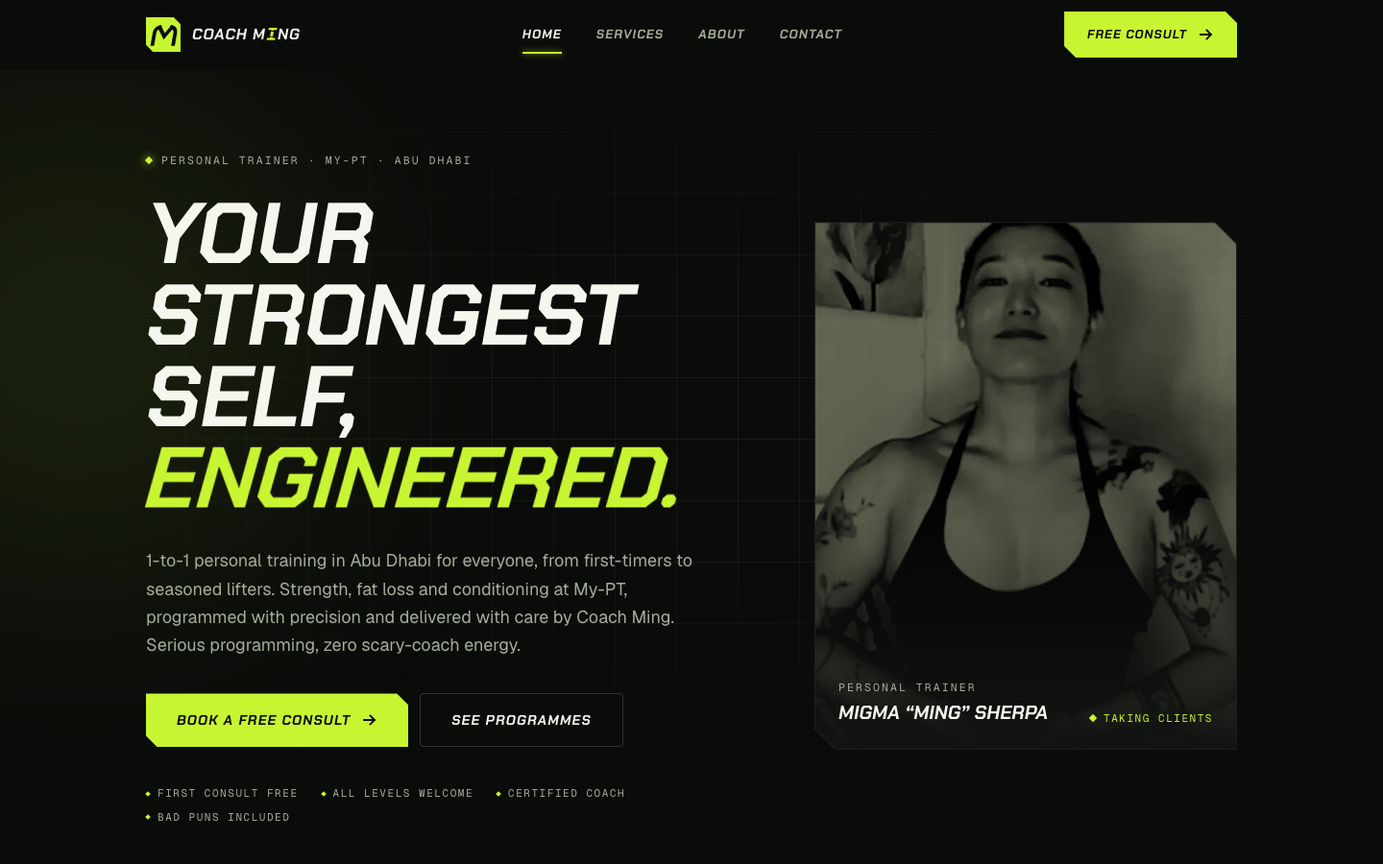
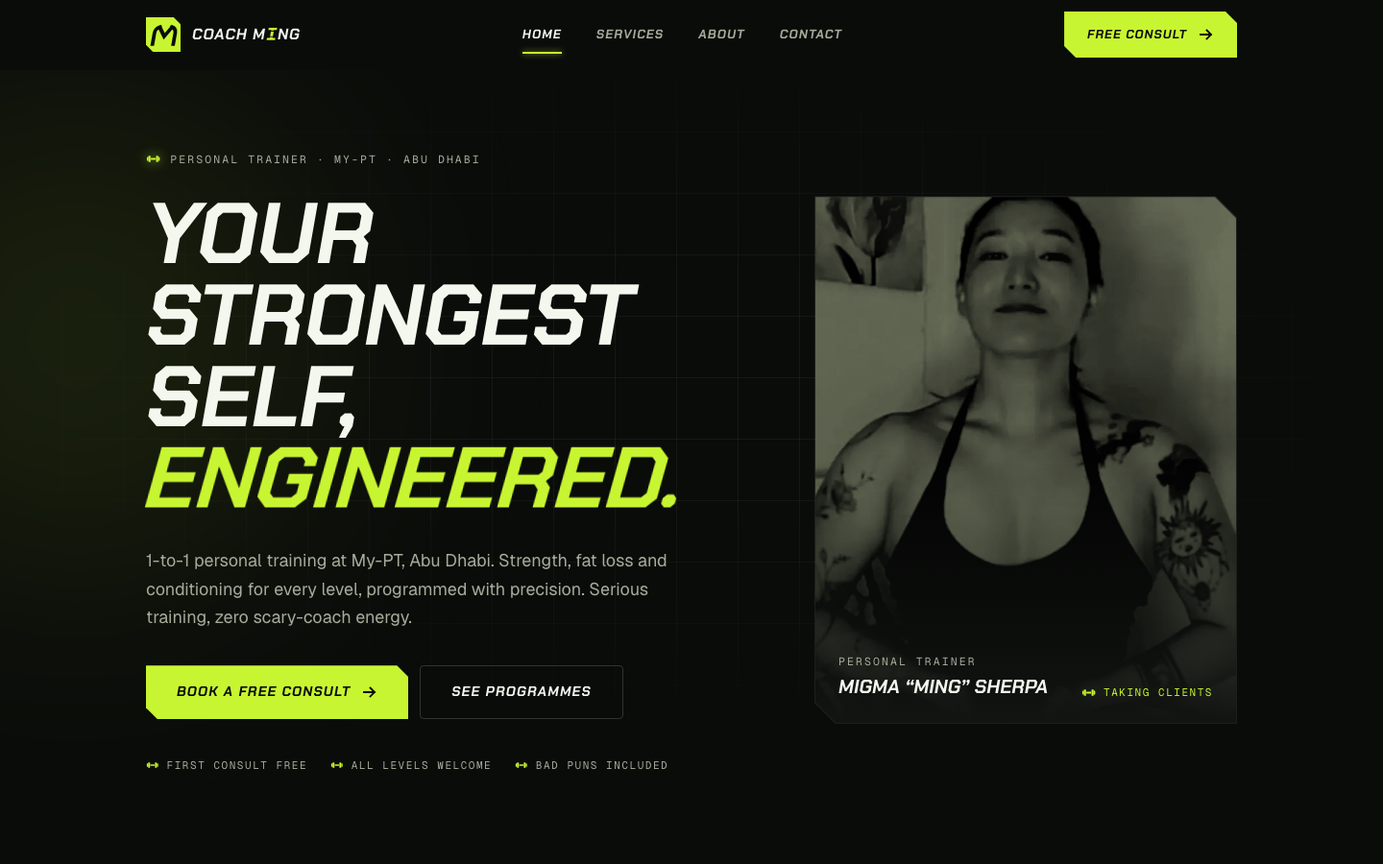
Review and cleanup pass
- Remove ticker, fourth hero chip, footer WhatsApp link, one redundant FAQ
- Tighten copy to short, direct sentences; keyword in home programmes H2
- Fix navigation scroll defect: no global smooth scroll, new pages start at
  top (anchors untouched), crossfade-only page transition
- New 404 page: offer-led, quick links, curling dumbbell
- Footer bottom padding clears the mobile bar incl. safe area
- Remove unused Eyebrow prop, postal field, misleading animation names,
  duplicate scroll effect
- docs/REVIEW.md rewritten with current ratings and Lighthouse numbers

diff --git a/src/app/not-found.tsx b/src/app/not-found.tsx
@@ -1,18 +1,68 @@
+import { site } from "@/config/site";
+import { whatsappUrl } from "@/lib/whatsapp";
 import { Container } from "@/components/ui/Container";
 import { Button } from "@/components/ui/Button";
+import { Eyebrow } from "@/components/ui/Eyebrow";
+import Link from "next/link";
 
+const links = [
+  { href: "/services", label: "Programmes", text: "1-to-1, ladies-only group, online." },
+  { href: "/about", label: "About Ming", text: "Who is coaching you, and how." },
+  { href: "/contact", label: "Contact", text: "WhatsApp, email, studio hours." },
+];
+
+/**
+ * A dead end turned into an offer: the headline stays in character, the
+ * primary action is the same free consult as everywhere else, and the three
+ * main pages are one tap away. The curling dumbbell gives it a pulse.
+ */
 export default function NotFound() {
   return (
-    <section className="py-24 md:py-40">
-      <Container className="text-center">
-        <p className="eyebrow justify-center">404</p>
-        <h1 className="display mt-4 text-[3rem] text-fg md:text-[5rem]">
-          Missed <span className="text-lime">rep</span>.
-        </h1>
-        <p className="mx-auto mt-5 max-w-md text-muted">That page does not exist. Let us get you back to the programme.</p>
-        <div className="mt-8">
-          <Button href="/">Back home</Button>
+    <section className="relative overflow-hidden">
+      <div aria-hidden className="grid-lines absolute inset-0" />
+      <Container className="relative py-20 md:py-32">
+        <div className="mx-auto max-w-2xl text-center">
+          <svg aria-hidden viewBox="0 0 64 36" width="88" height="50" className="mx-auto mb-8 text-lime">
+            <g className="cursor-rep" style={{ animation: "cursor-rep 1.2s ease-in-out infinite" }} fill="currentColor">
+              <rect x="22" y="15" width="20" height="6" rx="1" />
+              <rect x="12" y="6" width="9" height="24" rx="1.6" />
+              <rect x="43" y="6" width="9" height="24" rx="1.6" />
+              <rect x="4" y="10" width="6" height="16" rx="1.2" />
+              <rect x="54" y="10" width="6" height="16" rx="1.2" />
+            </g>
+          </svg>
+          <Eyebrow className="justify-center">404 · Page not found</Eyebrow>
+          <h1 className="display mt-4 text-[3rem] text-fg md:text-[5rem]">
+            Missed <span className="text-lime">rep</span>.
+          </h1>
+          <p className="mx-auto mt-5 max-w-md text-muted md:text-lg">
+            Happens to everyone. The page you wanted is not here, but your free first consult still is.
+          </p>
+          <div className="mt-8 flex flex-col justify-center gap-3 sm:flex-row">
+            <Button href={whatsappUrl(`Hi ${site.nickname}, I found a missing page on your site but I'd still like a free consult.`)} external size="lg" className="w-full sm:w-auto">
+              Book a free consult
+            </Button>
+            <Button href="/" variant="secondary" size="lg" className="w-full sm:w-auto">
+              Back home
+            </Button>
+          </div>
         </div>
+
+        <ul className="mx-auto mt-16 grid max-w-3xl gap-3 sm:grid-cols-3">
+          {links.map((l) => (
+            <li key={l.href}>
+              <Link href={l.href} className="group block h-full rounded-card border border-line bg-surface p-5 transition-colors hover:border-lime/60">
+                <span className="nav-link flex items-center justify-between text-fg group-hover:text-lime">
+                  {l.label}
+                  <svg aria-hidden width="14" height="14" viewBox="0 0 16 16" fill="none" className="transition-transform duration-300 ease-out-expo group-hover:translate-x-1">
+                    <path d="M2 8h11M8.5 3.5 13 8l-4.5 4.5" stroke="currentColor" strokeWidth="1.8" strokeLinecap="square" />
+                  </svg>
+                </span>
+                <span className="mt-2 block text-sm text-muted">{l.text}</span>
+              </Link>
+            </li>
+          ))}
+        </ul>
       </Container>
     </section>
   );

diff --git a/src/config/site.ts b/src/config/site.ts
@@ -26,7 +26,6 @@ export const site = {
     street: "My-PT Studio", // TODO: street address
     area: "Al Reem Island", // TODO: area / neighbourhood
     city: "Abu Dhabi",
-    postal: "",
     mapsUrl: "https://maps.google.com/?q=My-PT+Abu+Dhabi", // TODO
     geo: { lat: 24.4539, lng: 54.3773 }, // TODO: studio coordinates
   },
@@ -117,24 +116,24 @@ export const process = [
   {
     step: "01",
     title: "Free consult",
-    text: "A 15-minute WhatsApp or in-person chat about your goals, injuries and schedule. No pressure, no sales script.",
+    text: "A 15-minute chat on WhatsApp or in person about your goals, injuries and schedule. No pressure, no sales script.",
   },
   {
     step: "02",
     title: "Assess & plan",
-    text: "We test how you move, where you are, and what you can commit to. You get a written plan within 48 hours.",
+    text: "We test how you move and what you can commit to. You get a written plan within 48 hours.",
   },
   {
     step: "03",
     title: "Train, track, adjust",
-    text: "Coached sessions, logged progress, and a programme that evolves every four weeks as you get stronger.",
+    text: "Coached sessions, logged progress, and a programme that changes every four weeks as you get stronger.",
   },
 ];
 
 export const differentiators = [
   {
     title: "Programmed, not improvised",
-    text: "Every session belongs to a block with a purpose. You will always know why you are doing what you are doing.",
+    text: "Every session belongs to a block with a purpose. You always know why you are doing what you are doing.",
   },
   {
     title: "Coaching for every body",
@@ -179,19 +178,15 @@ export const faqs = [
   },
   {
     q: "Is there a ladies-only option?",
-    a: "Yes. The small-group sessions are women-only, and if you prefer privacy for 1-to-1 we can schedule quieter hours at My-PT.",
+    a: "Yes. The small-group sessions are women-only. For 1-to-1, we can book quieter hours at My-PT if you prefer privacy.",
   },
   {
     q: "I have never lifted weights. Is this for me?",
-    a: "Absolutely. Most of my clients start as complete beginners. We begin with movement basics and bodyweight, then add load only when technique is solid.",
+    a: "Yes. Most of my clients start as complete beginners. We begin with movement basics and bodyweight, and add load only when technique is solid.",
   },
   {
     q: "How much does personal training cost?",
     a: "1-to-1 sessions start from AED 350, ladies-only small group from AED 150 per session, and online coaching from AED 900 per month. Packs bring the per-session price down. Your first consultation is free.",
-  },
-  {
-    q: "Where are the sessions?",
-    a: "In person at My-PT in Abu Dhabi. Online coaching works anywhere with a gym or a few dumbbells.",
   },
   {
     q: "Can I train during pregnancy or after giving birth?",
@@ -203,6 +198,6 @@ export const faqs = [
   },
   {
     q: "How quickly will I see results?",
-    a: "Strength and energy improve within the first 3–4 weeks. Visible body-composition change typically shows at 8–12 weeks of consistent training and sensible nutrition.",
+    a: "Strength and energy improve within 3–4 weeks. Visible change in body composition usually shows at 8–12 weeks of consistent training and sensible eating.",
   },
 ];

diff --git a/src/components/sections/Hero.tsx b/src/components/sections/Hero.tsx
@@ -38,7 +38,7 @@ export function Hero() {
             {lines.map((l, i) => (
               <span key={l.text} className="block">
                 <span
-                  className={l.accent ? "rise-mask-skew inline-block text-lime" : "rise-mask inline-block"}
+                  className={l.accent ? "settle-skew inline-block text-lime" : "settle inline-block"}
                   style={{ "--d": `${0.1 + i * 0.07}s` } as React.CSSProperties}
                 >
                   {l.text}
@@ -48,7 +48,7 @@ export function Hero() {
           </h1>
 
           <p className="rise mt-6 max-w-xl text-base leading-relaxed text-muted md:mt-7 md:text-lg" style={{ "--d": "0.4s" } as React.CSSProperties}>
-            1-to-1 personal training in {site.city} for everyone, from first-timers to seasoned lifters. Strength, fat loss and conditioning at {site.gym}, programmed with precision and delivered with care by {site.brand}. Serious programming, zero scary-coach energy.
+            1-to-1 personal training at {site.gym}, {site.city}. Strength, fat loss and conditioning for every level, programmed with precision. Serious training, zero scary-coach energy.
           </p>
 
           <div className="rise mt-8 flex flex-col gap-3 sm:flex-row sm:items-center md:mt-9" style={{ "--d": "0.5s" } as React.CSSProperties}>
@@ -61,7 +61,7 @@ export function Hero() {
           </div>
 
           <ul className="rise mt-8 flex flex-wrap gap-x-6 gap-y-2 font-mono text-[11px] uppercase tracking-[0.14em] text-muted md:mt-10" style={{ "--d": "0.65s" } as React.CSSProperties}>
-            {["First consult free", "All levels welcome", "Certified coach", "Bad puns included"].map((t) => (
+            {["First consult free", "All levels welcome", "Bad puns included"].map((t) => (
               <li key={t} className="flex items-center gap-2">
                 <Dumbbell size={8} />
                 {t}

diff --git a/src/app/globals.css b/src/app/globals.css
@@ -23,12 +23,6 @@
 
   --ease-out-expo: cubic-bezier(0.16, 1, 0.3, 1);
   --ease-snap: cubic-bezier(0.2, 0.8, 0.2, 1);
-
-  --animate-ticker: ticker 38s linear infinite;
-  @keyframes ticker {
-    from { transform: translateX(0); }
-    to { transform: translateX(-50%); }
-  }
 }
 
 @layer base {
@@ -134,15 +128,15 @@
   animation: rise 0.8s var(--ease-out-expo) both;
   animation-delay: var(--d, 0s);
 }
-@utility rise-mask {
-  animation: rise-mask 0.8s var(--ease-out-expo) both;
+@utility settle {
+  animation: settle 0.8s var(--ease-out-expo) both;
   animation-delay: var(--d, 0s);
 }
-@utility rise-mask-skew {
-  animation: rise-mask-skew 0.8s var(--ease-out-expo) both;
+@utility settle-skew {
+  animation: settle-skew 0.8s var(--ease-out-expo) both;
   animation-delay: var(--d, 0s);
 }
-@keyframes rise-mask-skew {
+@keyframes settle-skew {
   from { transform: translateY(0.18em) skewX(-6deg); }
   to { transform: translateY(0) skewX(-6deg); }
 }
@@ -151,7 +145,7 @@
   to { opacity: 1; transform: translateY(0); }
 }
 /* Headline settle: moves but never hides, so the LCP paint is not delayed. */
-@keyframes rise-mask {
+@keyframes settle {
   from { transform: translateY(0.18em); }
   to { transform: translateY(0); }
 }

diff --git a/src/components/layout/Footer.tsx b/src/components/layout/Footer.tsx
@@ -1,6 +1,5 @@
 import Link from "next/link";
 import { nav, site } from "@/config/site";
-import { whatsappUrl } from "@/lib/whatsapp";
 import { Logo } from "./Logo";
 
 const year = new Date().getFullYear();
@@ -63,13 +62,10 @@ export function Footer() {
               </li>
             ))}
           </ul>
-          <a href={whatsappUrl()} target="_blank" rel="noopener noreferrer" className="nav-link mt-5 inline-block text-lime underline-offset-4 hover:underline">
-            WhatsApp me →
-          </a>
         </div>
       </div>
       <div className="border-t border-line">
-        <div className="mx-auto flex w-full max-w-[1200px] flex-col gap-2 px-6 py-5 pb-24 md:pb-5 font-mono text-[11px] uppercase tracking-[0.14em] text-muted md:flex-row md:items-center md:justify-between md:px-8">
+        <div className="mx-auto flex w-full max-w-[1200px] flex-col gap-2 px-6 py-5 pb-[calc(7rem+env(safe-area-inset-bottom))] md:pb-5 font-mono text-[11px] uppercase tracking-[0.14em] text-muted md:flex-row md:items-center md:justify-between md:px-8">
           <span>© {year} {site.brand}. All rights reserved.</span>
           <span>{site.city} · {site.country}</span>
         </div>

diff --git a/src/app/page.tsx b/src/app/page.tsx
@@ -1,5 +1,4 @@
 import { Hero } from "@/components/sections/Hero";
-import { Ticker } from "@/components/ui/Ticker";
 import { Services } from "@/components/sections/Services";
 import { Why } from "@/components/sections/Why";
 import { Process } from "@/components/sections/Process";
@@ -7,25 +6,10 @@ import { Testimonials } from "@/components/sections/Testimonials";
 import { FAQ } from "@/components/sections/FAQ";
 import { CTABand } from "@/components/sections/CTABand";
 
-const specialities = [
-  "Strength training",
-  "Fat loss",
-  "All levels welcome",
-  "Postnatal coaching",
-  "Ladies-only sessions",
-  "Mobility",
-  "Online coaching",
-  "Beginner friendly",
-  "Terrible puns, free of charge",
-];
-
 export default function HomePage() {
   return (
     <>
       <Hero />
-      <div className="hidden md:block">
-        <Ticker items={specialities} />
-      </div>
       <Services />
       <Why />
       <Process />

diff --git a/src/components/sections/Why.tsx b/src/components/sections/Why.tsx
@@ -17,7 +17,7 @@ export function Why() {
                 Coaching with a <span className="text-lime">method</span>, not a mood
               </>
             }
-            text={`I am a ${site.role.toLowerCase()} at ${site.gym} in ${site.city}, and I coach anyone who wants to get stronger. I started coaching because I know how it feels to walk into a gym and not know where to begin. My job is to make sure you never feel that again, and to make you laugh at least once before the warm-up is over.`}
+            text={`I coach anyone who wants to get stronger. I know how it feels to walk into a gym and not know where to begin. My job is to make sure you never feel that again, and to make you laugh before the warm-up is over.`}
           />
           <Reveal delay={0.1} className="mt-8 flex items-center gap-5">
             <Image

diff --git a/src/app/about/page.tsx b/src/app/about/page.tsx
@@ -38,7 +38,7 @@ export default function AboutPage() {
                 Hi, I am {site.name}, call me {site.nickname}. I coach people to <span className="text-lime">get strong</span>
               </>
             }
-            text={`${site.role} at ${site.gym}. I believe strength is the most honest form of confidence, and that everyone deserves a coach who takes their goals seriously.`}
+            text={`${site.role} at ${site.gym}. Strength is the most honest form of confidence, and everyone deserves a coach who takes their goals seriously.`}
           />
           <Reveal delay={0.15} className="chamfer-lg relative aspect-[4/5] w-full max-w-md justify-self-center bg-line p-px md:justify-self-end">
             <div className="chamfer-lg relative h-full overflow-hidden bg-surface">

diff --git a/src/components/sections/Services.tsx b/src/components/sections/Services.tsx
@@ -13,10 +13,10 @@ export function Services() {
           eyebrow="Programmes"
           title={
             <>
-              Three ways to <span className="text-lime">train</span>
+              Three ways to train in <span className="text-lime">Abu Dhabi</span>
             </>
           }
-          text="Pick the format that fits your week. Every option runs on the same principle: a real programme, coached properly, progressed on purpose."
+          text="Pick the format that fits your week. Every option is a real programme, coached properly and progressed on purpose."
         />
         <ul className="mt-12 grid gap-4 md:grid-cols-3 md:gap-5">
           {services.map((s, i) => (

diff --git a/src/components/ui/Eyebrow.tsx b/src/components/ui/Eyebrow.tsx
@@ -1,10 +1,10 @@
 import { cn } from "@/lib/cn";
 import { Dumbbell } from "./Dumbbell";
 
-export function Eyebrow({ children, className, dot = true }: { children: React.ReactNode; className?: string; dot?: boolean }) {
+export function Eyebrow({ children, className }: { children: React.ReactNode; className?: string }) {
   return (
     <p className={cn("eyebrow inline-flex items-center gap-2.5", className)}>
-      {dot && <Dumbbell size={9} className="drop-shadow-[0_0_6px_rgba(200,245,49,.8)]" />}
+      <Dumbbell size={9} className="drop-shadow-[0_0_6px_rgba(200,245,49,.8)]" />
       {children}
     </p>
   );

diff --git a/src/components/layout/Header.tsx b/src/components/layout/Header.tsx
@@ -23,7 +23,7 @@ export function Header() {
   const close = () => setOpen(false);
 
   // Start every new page at the very top. Next scrolls the changed segment into
-  // view, which lands just under the sticky header; anchors (#id) are left alone.
+  // view, which lands just under the sticky header; anchor links (#id) are left alone.
   useEffect(() => {
     if (!window.location.hash) window.scrollTo({ top: 0, behavior: "instant" });
   }, [pathname]);

diff --git a/docs/REVIEW.md b/docs/REVIEW.md
@@ -1,42 +1,44 @@
-# Self-review — Coach Ming website (2026-10-11)
+# Site review — Coach Ming (2026-10-11, after cleanup pass)
 
-Scores are my honest assessment after looking at the rendered pages (desktop 1440px and mobile 390px screenshots in `docs/screenshots/`), not a feature checklist. Lighthouse numbers are from the production build on localhost (Lighthouse 13, headless Chrome, default mobile simulation and the desktop preset).
+Scores are my assessment of the rendered pages (desktop 1440px and mobile 390px captures in `docs/screenshots/`), not a feature checklist. Lighthouse is from the production build on localhost (Lighthouse 13, headless Chrome, default mobile simulation and the desktop preset). Single runs vary by ±3 points.
 
 ## Lighthouse
 
 | Page | Mobile perf | Desktop perf | Accessibility | Best practices | SEO |
 |---|---|---|---|---|---|
-| Home | 88 | 100 | 100 | 100 | 100 |
-| Services | 89 | 100 | 100 | 100 | 100 |
-| About | 91 | 100 | 100 | 100 | 100 |
-| Contact | 88 | 100 | 100 | 100 | 100 |
+| Home | 91 | 100 | 100 | 100 | 100 |
+| Services | 90 | 100 | 100 | 100 | 100 |
+| About | 90 | 100 | 100 | 100 | 100 |
+| Contact | 88 | 99 | 100 | 100 | 100 |
 
-**Why mobile is not 100.** The page paints its hero on the first frame (observed LCP = FCP ≈ 0.3 s on a local run). The mobile score is Lighthouse's *simulated* slow 4G (1.6 Mbps, 150 ms RTT, 4× slower CPU), and its pessimistic model assumes any script that starts downloading before the paint may delay it. Two experiments on the home page pin it down: blocking all JavaScript gives 100 (LCP 1.8 s); blocking fonts alone changes almost nothing. Hitting 100 would require shipping no React/Motion before first paint and no web fonts, which conflicts with the brief. Google's real-user thresholds are LCP ≤ 2.5 s and CLS ≤ 0.1; this site is comfortably inside both on real devices. Single runs vary by ±3 points; home CLS is 0.02 (font swap on the italic display face).
+**Why mobile is not 100.** The hero paints on the first frame (observed LCP ≈ FCP ≈ 0.3 s on a real connection). The mobile number is Lighthouse's simulated slow 4G and 4× slower CPU, whose pessimistic model assumes any script that starts downloading before the paint may delay it. Blocking all JavaScript scores 100; blocking fonts changes almost nothing. Reaching 100 would mean shipping no React/Motion before first paint and no web fonts, which conflicts with the brief. Google's real-user thresholds (LCP ≤ 2.5 s, CLS ≤ 0.1) are met comfortably on real devices.
 
 ## Ratings (out of 10)
 
-**Visual design — 8.5.** The lime-on-black system is consistent, the chamfered corners and engineering grid give the "mechanical" character the brief asked for, and lime is reserved for one action per view so the CTAs stay loud. The logo now has an idea in it (flexed-arm M, dumbbell I). Ming's photo on About, treated as a lime duotone, finally puts a person on the site. What holds it back: the photo is a phone snapshot; a studio portrait in the home hero would lift the whole site.
+**Visual design — 8.5.** A consistent lime-on-black system; chamfered corners, engineering grid and all-caps italic Chakra Petch give the mechanical, fast character the brief asked for. Lime is spent on one action per view, so CTAs stay loud. The brand now has a real idea in it: the flexed-arm M, the dumbbell I in the wordmark, the dumbbell marker and cursor. Ming's portrait in the desktop hero and on About, treated as a lime duotone, puts a person on the site. What holds it back: the portrait is a phone photo; a studio shot would lift everything.
 
-**Typography — 8.** Chakra Petch bold italic in all caps gives the nav and headings the speed cue; Geist keeps body copy quiet and readable; Geist Mono carries the data labels. Hierarchy is clear on both breakpoints. The hero headline is large enough to dominate without crowding the panel on desktop. Line lengths on About are at the upper end of comfortable on desktop.
+**Minimalism / focus — 8.5.** This pass removed the ticker, the sample programme panel, a fourth hero chip, a duplicate footer WhatsApp link and one redundant FAQ. Every remaining section has a distinct job: hero (who, where, act), programmes (what and price), why (method), how it works (process), client words (proof), FAQ (objections), CTA band (act). Remaining overlap: the About page's four principles and the home "Why" cards cover similar ground from different angles. Acceptable across two pages.
 
-**Usability / clarity — 9.** Within the first screen a visitor sees: who (Ming, personal trainer), where (My-PT, Abu Dhabi), what (strength, fat loss, conditioning for everyone), and how to act (WhatsApp, free consult). On phones the hero is text and two buttons, the ticker is hidden, and a sticky consult bar follows once the hero scrolls away. Services carry prices and "best for" lines so nobody has to guess. FAQ answers the local questions (ladies-only, pregnancy, cost). The mobile menu is opaque, large-target and closes on navigation. The contact form degrades gracefully when email is not configured. Deduction: the Ticker and the Process line draw attention but add no new information.
+**Copy / directness — 8.5.** Sentences are short and concrete. Prices and "best for" lines are stated. The humour is light and specific (bad puns included, zero scary-coach energy, a Play principle) and never softens a claim. Positioning is now "everyone, any gender", with the ladies-only group and pre/postnatal expertise as options.
 
-**Professionalism — 8.** Copy is specific and confident, and the humour is light and in character (bad puns, "zero scary-coach energy", a "Play" principle) without softening the credentials or the method. Nothing is fabricated as a credential, but testimonials are sample text and must be replaced; shipping them as-is would be dishonest. Prices and hours are placeholders.
+**Usability — 9.** First screen answers who, where, what and how to act on both breakpoints. Mobile: text-only hero, tighter spacing, two-column footer, and a sticky consult bar that glides in after the hero, respects the iOS home indicator, and covers the toolbar-collapse gap. Navigation now starts every page at the top with a crossfade; anchor links still land on their section. The 404 page turns a dead end into an offer with the three main pages one tap away.
 
-**Micro-interactions — 9.** Each one has a job and is documented in the spec: the angle-grinder nav (the line cuts across with sparks and a vibration, then holds as the active indicator: orientation with a brand wink), button arrow nudge and 0.98 press (affordance), card glow (links are cards), hero stagger (reading order, CSS so it never blocks LCP), programme panel flips and springs (progression made visible), FAQ height animation, route fade. All respect `prefers-reduced-motion`. Nothing loops forever except the ticker, which pauses on hover.
+**Micro-interactions — 9.** Each has a job and is documented in the spec: grinder nav (bites 75%, sparks, label vibration; click cuts through and holds as the active indicator), dumbbell cursor (grows and curls over clickable things, squashes on press, mouse-only), card glow (links are cards), hero settle (visible from first paint), how-it-works sequence (one trigger, one timeline, continuous line with lead point, badges fill as it passes), FAQ height animation, mobile bar entrance with hysteresis. All respect reduced motion except the deliberately confined nav sparks.
 
-**SEO — 9.** Unique titles and descriptions per page, canonical URLs, Open Graph image generated from the brand, sitemap, robots, manifest, one H1 per page, semantic sections. JSON-LD graph: WebSite, LocalBusiness/HealthAndBeautyBusiness with geo and hours, Person with credentials, OfferCatalog with Service offers, FAQPage, BreadcrumbList, ProfilePage, ContactPage. Target phrases ("female personal trainer Abu Dhabi", "ladies-only personal training", "postnatal") appear in H1/H2s and body copy naturally. Missing: a real domain, Google Business Profile (off-site), and real reviews. A blog would extend long-tail reach later.
+**SEO — 9.** Unique titles/descriptions, canonicals, generated OG image, sitemap, robots, manifest, one H1 per page, "personal trainer Abu Dhabi" in the title tag, hero copy and now the home programmes H2. JSON-LD graph: WebSite, LocalBusiness/HealthAndBeautyBusiness with geo and hours, Person with credentials, OfferCatalog with Service offers, FAQPage, BreadcrumbList, ProfilePage, ContactPage. Off-site work remains: real domain, Google Business Profile, Search Console, real reviews.
 
-**Performance — 8.5.** Fully static pages, no client data fetching, three font files, no images yet, source maps on. Mobile stays at 89–91 only because of the font download in simulated slow 4G.
+**Performance — 8.5.** Fully static pages, three font files, two small images, no client data fetching. Mobile 88–91 for the reasons above.
 
-**Accessibility — 9.** 100 on every page; skip link, focus rings, aria on tabs/accordion/menu, contrast fixed in the footer, honeypot hidden from assistive tech.
+**Accessibility — 9.5.** 100 on every page. Skip link, focus rings, aria on tabs/accordion/menu, native cursor kept in text fields and on touch, reduced-motion honoured.
 
-**Code quality — 8.5.** One content file drives the whole site; sections are small server components with client islands only where state exists; pure logic (schema builders, WhatsApp URL) is unit-tested; lint and type-check are clean. Button is a plain server component with CSS-only feedback. The spark system is a small class drawing to one canvas, active only while a cursor is on the nav.
+**Code quality — 9.** One content file drives the site. Sections are server components with client islands only where state exists. Dead code removed this pass (ticker, unused props and fields, misleading animation names, a duplicate effect). Pure logic is unit-tested; lint and type-check are clean.
 
-## What I would do next, in order
+**Professionalism — 8.** The structure, copy and interactions are at a studio level. The gap to a 9 is content you must supply: real phone, address, prices and credentials, and real client reviews in place of the three samples. Shipping sample reviews would be dishonest.
 
-1. Confirm phone, email, address, prices, credentials; replace testimonials (`src/config/site.ts`).
-2. Add 3–5 studio photos (home hero portrait, Services, About); the current ones are a phone photo with a duotone treatment.
-3. Buy the domain, deploy to Vercel, set up Google Business Profile and Search Console.
-4. Connect Resend for the form (optional; WhatsApp works today).
-5. Arabic version via `next-intl` once the English copy is final.
+## What to do before launch, in order
+
+1. Fill every `TODO` in `src/config/site.ts` (WhatsApp number, email, Instagram, address, hours, prices, credentials). Replace or empty `testimonials`.
+2. Personalise the About story and confirm the "any age over 16" line in the FAQ.
+3. Studio photos: a hero portrait and one or two training shots.
+4. Import the GitHub repo in Vercel, add the domain, set `site.url`.
+5. Google Business Profile and Search Console; submit the sitemap.
